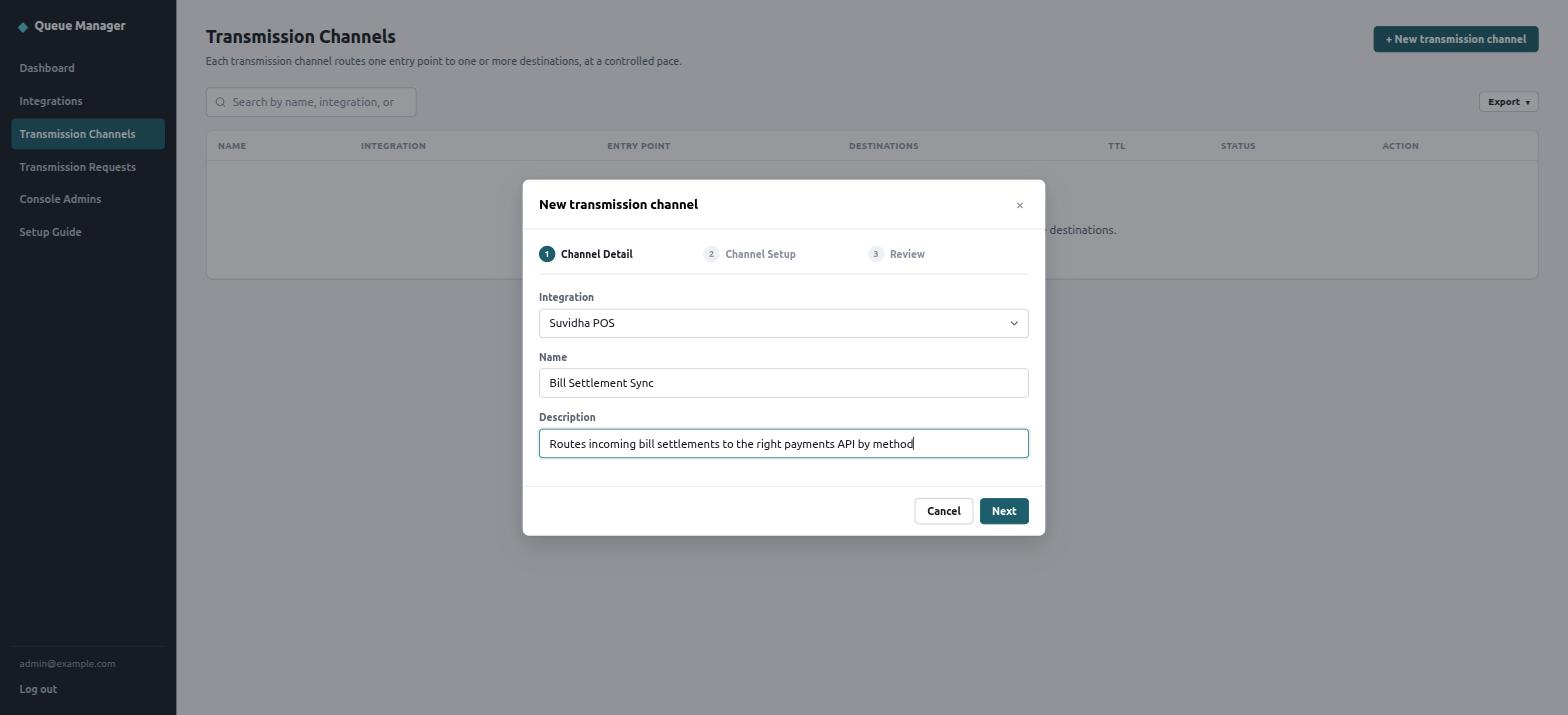
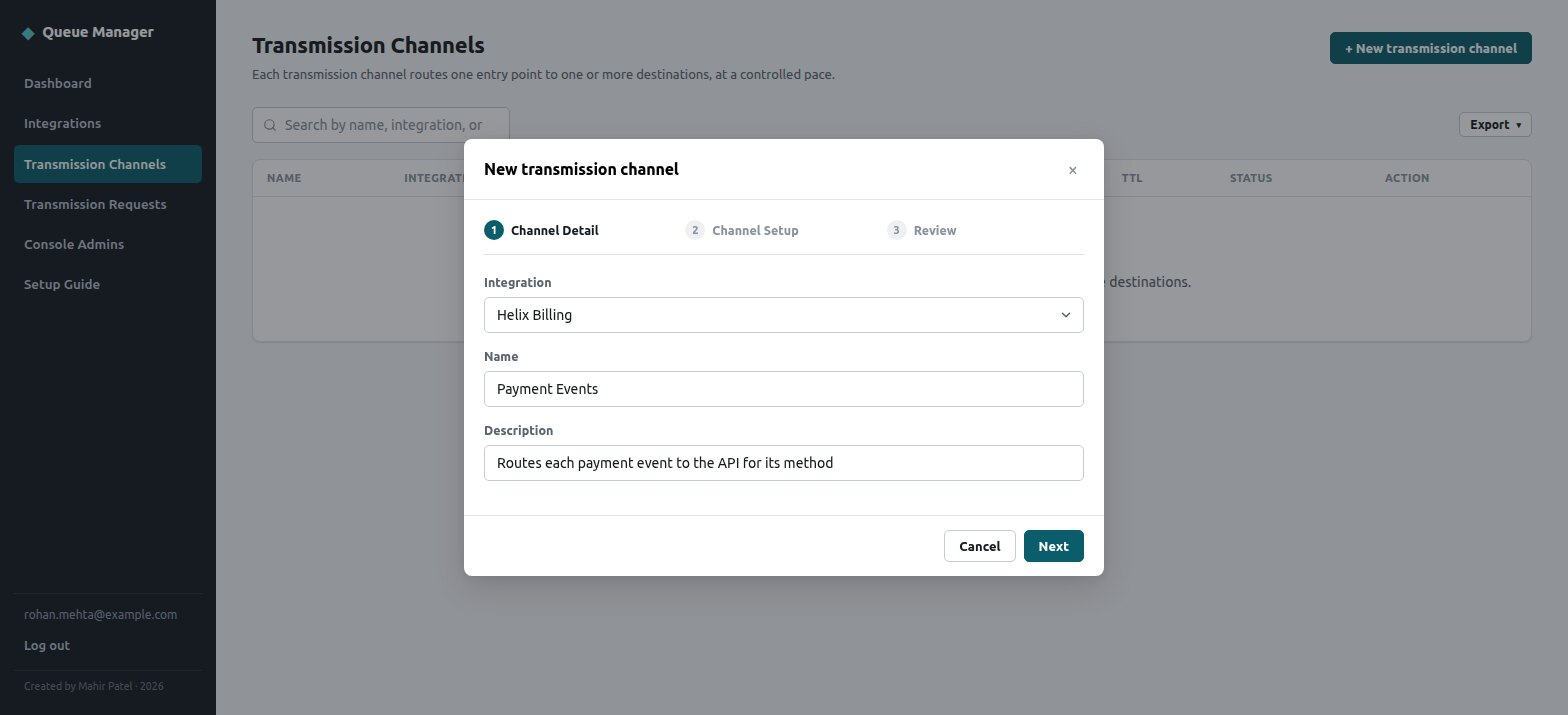
update documentations

diff --git a/web/guide.html b/web/guide.html
@@ -53,15 +53,15 @@
 
           <section class="guide-topic active" id="topic-integration">
             <h2>Create an Integration</h2>
-            <p class="guide-topic-intro">An Integration represents one third-party system that will send data into the queue — an ERP, a POS, a logistics platform, anything that needs to call into your backend without calling it directly. Each one gets its own AES-256 key and IV, so a problem with one third party's credentials never affects another's. Create the integration first; a Transmission Channel always belongs to one.</p>
+            <p class="guide-topic-intro">An Integration represents one third-party system that will send data into the queue — a CRM, a billing system, an email provider, anything that needs to call into your backend without calling it directly. Each one gets its own AES-256 key and IV, so a problem with one third party's credentials never affects another's. Create the integration first; a Transmission Channel always belongs to one.</p>
 
             <div class="guide-step">
               <div class="guide-step-num">1</div>
               <div class="guide-step-body">
                 <h3>Open Integrations and click "+ New integration"</h3>
-                <p>The Integrations list shows every third-party system you've onboarded, its description, and its authentication key/IV (masked, with a one-click Copy button — the backend still returns the real values to any signed-in console admin, this is just a display choice so they aren't sitting in plain text on screen). Below, four are already set up: <strong>Saffron ERP</strong>, <strong>Suvidha POS</strong>, <strong>Bharat Logistics Hub</strong>, and <strong>Anand Retail Systems</strong> — a small ERP, point-of-sale, logistics, and loyalty stack, which is what the rest of this guide is built around.</p>
-                <p>Use the search box to narrow the list by name or description as it grows — searching "sync" here, for instance, would show only these four.</p>
-                <img class="guide-shot" src="/static/img/guide/integrations-list.jpg" alt="Integrations list showing Saffron ERP, Suvidha POS, Bharat Logistics Hub, and Anand Retail Systems">
+                <p>The Integrations list shows every third-party system you've onboarded, its description, and its authentication key/IV (masked, with a one-click Copy button — the backend still returns the real values to any signed-in console admin, this is just a display choice so they aren't sitting in plain text on screen). Below, four are already set up: <strong>Northwind CRM</strong>, <strong>Helix Billing</strong>, <strong>Orbit Mail</strong>, and <strong>Atlas HR</strong> — a small CRM, billing, email, and HR stack, which is what the rest of this guide is built around.</p>
+                <p>Use the search box to narrow the list by name or description as it grows — searching "billing" here, for instance, would narrow it to Helix Billing.</p>
+                <img class="guide-shot" src="/static/img/guide/integrations-list.jpg" alt="Integrations list showing Atlas HR, Helix Billing, Northwind CRM, and Orbit Mail">
               </div>
             </div>
 
@@ -71,7 +71,7 @@
                 <h3>Fill in the name and generate a key + IV</h3>
                 <p>Give the integration a name and a short description — the description shows up right in the list, so make it say what the system actually does, not just what it's called. Then set:</p>
                 <p><code>Authentication key</code> — exactly 32 characters, used as the AES-256 key. <code>Authentication IV</code> — exactly 16 characters, the initialization vector. Both travel to the third party out of band (Slack, a shared doc, however you hand off credentials today) — Queue Manager never transmits them anywhere itself, it only stores them to decrypt what comes back in.</p>
-                <img class="guide-shot" src="/static/img/guide/integrations-new-form.jpg" alt="New integration dialog filled in for Saffron ERP with name, description, authentication key and IV">
+                <img class="guide-shot" src="/static/img/guide/integrations-new-form.jpg" alt="New integration dialog filled in for Quill Support with name, description, authentication key and IV">
                 <p class="guide-callout">Save the key and IV somewhere safe the moment you generate them — you'll hand them to whoever implements the sending side, and they're exactly what the downloadable sample integration doc (see the next topic) fills in automatically, so you rarely need to copy them by hand more than once.</p>
               </div>
             </div>
@@ -93,8 +93,8 @@
               <div class="guide-step-num">1</div>
               <div class="guide-step-body">
                 <h3>Open Transmission Channels and click "+ New transmission channel"</h3>
-                <p>Each row shows which integration the channel belongs to, its entry point, how many destinations it fans out to, its retention (TTL), and whether it's active. Below, <strong>Order Sync</strong> (Saffron ERP) is a simple one-destination channel; <strong>Bill Settlement Sync</strong> (Suvidha POS) fans out to two destinations by payment method; <strong>Shipment Status Sync</strong> is active; and <strong>Loyalty Points Sync</strong> is currently inactive — a normal state for a channel that's paused, being reconfigured, or not live yet.</p>
-                <img class="guide-shot" src="/static/img/guide/channels-list.jpg" alt="Transmission Channels list showing Bill Settlement Sync, Loyalty Points Sync (inactive), Order Sync, and Shipment Status Sync">
+                <p>Each row shows which integration the channel belongs to, its entry point, how many destinations it fans out to, its retention (TTL), and whether it's active. Below, <strong>Customer Sync</strong> (Northwind CRM) is a simple one-destination channel; <strong>Payment Events</strong> (Helix Billing) fans out to two destinations by payment method; <strong>Email Status Sync</strong> is active; and <strong>Employee Sync</strong> is currently inactive — a normal state for a channel that's paused, being reconfigured, or not live yet.</p>
+                <img class="guide-shot" src="/static/img/guide/channels-list.jpg" alt="Transmission Channels list showing Customer Sync, Email Status Sync, Employee Sync (inactive), and Payment Events">
               </div>
             </div>
 
@@ -102,8 +102,8 @@
               <div class="guide-step-num">2</div>
               <div class="guide-step-body">
                 <h3>Step 1 — Channel Detail</h3>
-                <p>Pick which Integration this channel belongs to, then give the channel its own name and description, separate from the integration's. One integration can own several channels — Suvidha POS, for example, might eventually have a channel each for bill settlements, refunds, and shift closures, all sharing the same authentication key/IV but each with its own entry point, retention, and destinations.</p>
-                <img class="guide-shot" src="/static/img/guide/channels-wizard-step1.jpg" alt="Step 1 of the new transmission channel wizard filled in for Bill Settlement Sync under Suvidha POS">
+                <p>Pick which Integration this channel belongs to, then give the channel its own name and description, separate from the integration's. One integration can own several channels — Helix Billing, for example, might eventually have a channel each for payment events, refunds, and invoices, all sharing the same authentication key/IV but each with its own entry point, retention, and destinations.</p>
+                <img class="guide-shot" src="/static/img/guide/channels-wizard-step1.jpg" alt="Step 1 of the new transmission channel wizard filled in for Payment Events under Helix Billing">
               </div>
             </div>
 
@@ -112,9 +112,9 @@
               <div class="guide-step-body">
                 <h3>Step 2 — Channel Setup</h3>
                 <p>Set the <code>Entry point</code> slug — this becomes the path third parties POST encrypted payloads to (use "Copy URL" to grab the full ingest URL to hand off), and <code>Keep transmission requests for (days)</code> — how long a request's record stays queryable before it's cleaned up automatically.</p>
-                <p>Then add one or more <code>Destinations</code>, each with its own endpoint URL and <code>Gap between sends</code> (seconds of pacing between consecutive deliveries to that destination — this is the throttle that protects the real backend). With a single destination, like Order Sync's <strong>Inventory API</strong>, every request that arrives goes straight there — no routing configuration needed at all.</p>
-                <p>Add a second destination and a <code>Routing field</code> box appears above the destinations list. Bill Settlement Sync below names that field <code>payment_type</code>, and its two destinations — <strong>UPI Payments API</strong> (routing value <code>upi</code>) and <strong>Card Payments API</strong> (routing value <code>card</code>) — each claim one value. When a payload arrives, Queue Manager reads <code>payment_type</code> out of the decrypted JSON and hands the request to whichever destination's value matches — a single lookup at the moment it arrives, so it stays fast and simple even with several destinations.</p>
-                <img class="guide-shot" src="/static/img/guide/channels-wizard-step2.jpg" alt="Step 2 of the new transmission channel wizard: entry point, TTL, routing field payment_type, and the UPI Payments API destination">
+                <p>Then add one or more <code>Destinations</code>, each with its own endpoint URL and <code>Gap between sends</code> (seconds of pacing between consecutive deliveries to that destination — this is the throttle that protects the real backend). With a single destination, like Customer Sync's <strong>Accounts API</strong>, every request that arrives goes straight there — no routing configuration needed at all.</p>
+                <p>Add a second destination and a <code>Routing field</code> box appears above the destinations list. Payment Events below names that field <code>payment_method</code>, and its two destinations — <strong>Card Payments API</strong> (routing value <code>card</code>) and <strong>UPI Payments API</strong> (routing value <code>upi</code>) — each claim one value. When a payload arrives, Queue Manager reads <code>payment_method</code> out of the decrypted JSON and hands the request to whichever destination's value matches — a single lookup at the moment it arrives, so it stays fast and simple even with several destinations.</p>
+                <img class="guide-shot" src="/static/img/guide/channels-wizard-step2.jpg" alt="Step 2 of the new transmission channel wizard: entry point, TTL, routing field payment_method, and the Card Payments API destination">
               </div>
             </div>
 
@@ -122,7 +122,7 @@
               <div class="guide-step-num">4</div>
               <div class="guide-step-body">
                 <h3>Step 3 — Review</h3>
-                <p>Review shows every destination with its resolved routing rule in plain language — "UPI Payments API — routes when <code>payment_type</code> = <code>upi</code>" — so you can sanity-check the whole fan-out at a glance before committing. From here, "Download sample integration doc" generates a Markdown file with the real ingest URL, the required headers, the AES-256-CBC encryption recipe (the exact PHP snippet a third-party developer would use), the integration's key/IV already filled in, the routing key and its values if this channel routes, and — per destination — a sample plaintext JSON body, that same body already encrypted with the integration's real key/IV, and a ready-to-run <code>curl</code> command built from it. The encrypted samples are generated live in your browser, so the <code>curl</code> commands in the file are genuine working requests, not placeholders — copy one straight into a terminal to smoke-test the channel before any third party writes a line of code. Hand the file to whoever's implementing the sending side and there's nothing left for them to guess.</p>
+                <p>Review shows every destination with its resolved routing rule in plain language — "UPI Payments API — routes when <code>payment_method</code> = <code>upi</code>" — so you can sanity-check the whole fan-out at a glance before committing. From here, "Download sample integration doc" generates a Markdown file with the real ingest URL, the required headers, the AES-256-CBC encryption steps (the exact PHP snippet a third-party developer would use), the integration's key/IV already filled in, the routing key and its values if this channel routes, and — per destination — a sample plaintext JSON body, that same body already encrypted with the integration's real key/IV, and a ready-to-run <code>curl</code> command built from it. The encrypted samples are generated live in your browser, so the <code>curl</code> commands in the file are genuine working requests, not placeholders — copy one straight into a terminal to smoke-test the channel before any third party writes a line of code. Hand the file to whoever's implementing the sending side and there's nothing left for them to guess.</p>
                 <img class="guide-shot" src="/static/img/guide/channels-wizard-step3.jpg" alt="Step 3 of the new transmission channel wizard: review showing both destinations' routing rules and the download sample doc button">
               </div>
             </div>
@@ -131,8 +131,8 @@
               <div class="guide-step-num">5</div>
               <div class="guide-step-body">
                 <h3>Save, then activate</h3>
-                <p>Saving creates the channel in an inactive state — nothing is listening yet. Click "Activate" on its row to start a worker processing for each destination; the entry point only starts accepting traffic once this happens. "Deactivate" reverses it without deleting anything — requests already waiting for a destination stay queued untouched, so pausing a channel to fix a downstream issue never drops a backlog. <strong>Loyalty Points Sync</strong> below is a real example of a paused channel sitting in exactly that state.</p>
-                <img class="guide-shot" src="/static/img/guide/channels-list-with-activate.jpg" alt="Transmission Channels list with Loyalty Points Sync inactive and an Activate button on its row">
+                <p>Saving creates the channel in an inactive state — nothing is listening yet. Click "Activate" on its row to start a worker processing for each destination; the entry point only starts accepting traffic once this happens. "Deactivate" reverses it without deleting anything — requests already waiting for a destination stay queued untouched, so pausing a channel to fix a downstream issue never drops a backlog. <strong>Employee Sync</strong> below is a real example of a paused channel sitting in exactly that state.</p>
+                <img class="guide-shot" src="/static/img/guide/channels-list-with-activate.jpg" alt="Transmission Channels list with Employee Sync inactive and an Activate button on its row">
               </div>
             </div>
           </section>
@@ -146,8 +146,8 @@
               <div class="guide-step-body">
                 <h3>Open Transmission Requests</h3>
                 <p>Narrow the grid with the dropdowns — by transmission channel, by status (<span class="mono">pending</span>, <span class="mono">processing</span>, <span class="mono">success</span>, <span class="mono">failed</span>), or by a date range — then click Filter, or search the currently loaded rows by request ID or channel name. The coloured rail on the left edge of each row is the fastest way to scan a long list for trouble: green for success, red for failed, at a glance without reading the Status column at all.</p>
-                <p>Below, ten requests have already landed across all four channels — order events from Saffron ERP, UPI and card settlements from Suvidha POS split correctly by the routing rule you set up above, shipment updates from Bharat Logistics Hub, and loyalty accrual events from Anand Retail Systems, all successful, plus one Order Sync request that failed and was retried.</p>
-                <img class="guide-shot" src="/static/img/guide/requests-grid.jpg" alt="Transmission Requests grid with ten rows across four channels including one Order Sync retry">
+                <p>Below, eleven requests have already landed across all four channels — new customer accounts from Northwind CRM, card and UPI payment events from Helix Billing split correctly by the routing rule you set up above, email delivery updates from Orbit Mail, and joiner and leaver events from Atlas HR. Ten were delivered, and one Customer Sync request failed.</p>
+                <img class="guide-shot" src="/static/img/guide/requests-grid.jpg" alt="Transmission Requests grid with requests across all four channels, including one failed Customer Sync request">
               </div>
             </div>
 
@@ -155,8 +155,8 @@
               <div class="guide-step-num">2</div>
               <div class="guide-step-body">
                 <h3>Open a failed request</h3>
-                <p>Click "View" on any row to see its full detail: which channel and destination it was headed to, the exact destination endpoint URL that was called, the request's decrypted body exactly as it was received (handy for confirming the third party is actually sending what you expect), and the raw response — HTTP status plus body — that came back from the destination. Below, a Saffron ERP order for customer Anil Deshmukh failed with an HTTP 500 because the Inventory API was temporarily pointed at a broken endpoint; the response body makes the reason obvious without needing to check server logs.</p>
-                <img class="guide-shot" src="/static/img/guide/requests-detail-failed.jpg" alt="Transmission Request detail dialog for a failed Order Sync request showing the decrypted payload and a 500 response">
+                <p>Click "View" on any row to see its full detail: which channel and destination it was headed to, the exact destination endpoint URL that was called, the request's decrypted body exactly as it was received (handy for confirming the third party is actually sending what you expect), and the raw response — HTTP status plus body — that came back from the destination. Below, a Northwind CRM update for the customer Quarry &amp; Co failed with an HTTP 500 because the Accounts API destination had been pointed at a v2 endpoint that wasn't live yet; the response body makes the reason obvious without needing to check server logs.</p>
+                <img class="guide-shot" src="/static/img/guide/requests-detail-failed.jpg" alt="Transmission Request detail dialog for a failed Customer Sync request showing the decrypted payload and a 500 response">
               </div>
             </div>
 
@@ -165,7 +165,7 @@
               <div class="guide-step-body">
                 <h3>Retry it</h3>
                 <p>Fix the underlying problem first — in this example, that means correcting the destination's endpoint URL back on the Transmission Channel — then click Retry from the detail dialog or straight from the grid row. Queue Manager always re-publishes against the destination's <em>current</em> configuration, not whatever was in effect at the moment it first failed, so "fix the endpoint, then retry" genuinely works. The retry count on the row ticks up by one and the original decrypted payload is reused as-is — nothing is re-entered, re-typed, or re-encrypted by hand. Below, the same request now shows Success, HTTP 200, and one retry.</p>
-                <img class="guide-shot" src="/static/img/guide/requests-after-retry.jpg" alt="Transmission Requests grid showing the previously-failed Order Sync request now succeeded with a retry count of 1">
+                <img class="guide-shot" src="/static/img/guide/requests-after-retry.jpg" alt="Transmission Requests grid showing the previously-failed Customer Sync request now succeeded with a retry count of 1">
                 <p class="guide-callout">Retry is always a manual, deliberate action — Queue Manager never auto-retries a failed request on its own. That's a conscious choice: a downstream outage shouldn't turn into a retry storm hammering the same broken endpoint.</p>
               </div>
             </div>

diff --git a/web/static/js/templates.js b/web/static/js/templates.js
@@ -158,12 +158,12 @@
           </div>
           <div class="field dest-routing-value-field">
             <label>Routing value</label>
-            <input type="text" class="dest-routing-value" placeholder="order.created" value="${escapeHtml(d.destination_routing_value || "")}">
+            <input type="text" class="dest-routing-value" placeholder="customer.created" value="${escapeHtml(d.destination_routing_value || "")}">
           </div>
         </div>
         <div class="field">
           <label>Destination endpoint URL</label>
-          <input type="text" class="dest-endpoint" required placeholder="https://internal.example.com/inventory/purchase" value="${escapeHtml(d.destination_end_point || "")}">
+          <input type="text" class="dest-endpoint" required placeholder="https://internal.example.com/accounts/customers" value="${escapeHtml(d.destination_end_point || "")}">
         </div>
         <div class="field">
           <label>Gap between sends (seconds)</label>
@@ -308,7 +308,7 @@
   }
 
   // Builds a hand-off doc for whoever implements the sending side — full
-  // ingest URL, headers, the encryption recipe, the integration's actual
+  // ingest URL, headers, the encryption steps, the integration's actual
   // key/IV (already visible to any console admin elsewhere in the app —
   // this is a display convenience, not a new exposure), the routing key
   // if this channel fans out, a sample plaintext + encrypted body per

diff --git a/web/templates.html b/web/templates.html
@@ -101,7 +101,7 @@
           <div class="field">
             <label for="templateEntryPoint">Entry point</label>
             <div class="input-with-button">
-              <input type="text" id="templateEntryPoint" required placeholder="inventory-order-sync">
+              <input type="text" id="templateEntryPoint" required placeholder="customer-sync">
               <button type="button" class="btn btn-sm" id="copyEntryPointBtn">Copy URL</button>
             </div>
             <p class="hint">Third parties will POST to <code id="entryPointPreview">/ingest/…</code></p>

diff --git a/internal/handlers/templates.go b/internal/handlers/templates.go
@@ -35,7 +35,7 @@ type templateInput struct {
 	ProductID              string             `json:"product_id"`
 	TemplateName           string             `json:"template_name"`
 	TemplateDescription    string             `json:"template_description"`
-	TemplateEntryPoint     string             `json:"template_entry_point"` // slug, e.g. "inventory-order-sync"
+	TemplateEntryPoint     string             `json:"template_entry_point"` // slug, e.g. "customer-sync"
 	TemplateRoutingField   string             `json:"template_routing_field"`
 	Destinations           []destinationInput `json:"destinations"`
 	TemplateRequestTTLDays int                `json:"template_request_ttl_days"`

diff --git a/internal/crypto/aes_test.go b/internal/crypto/aes_test.go
@@ -6,8 +6,8 @@ import (
 
 // TestDecrypt_PHPFixture validates against a ciphertext generated by real
 // PHP: openssl_encrypt(json_encode($data), 'AES-256-CBC', $key, OPENSSL_RAW_DATA, $iv)
-// then urlencode(base64_encode($encrypted)) — the exact pattern used in
-// /var/www/html/inventory/app/Model/AppModel.php.
+// then urlencode(base64_encode($encrypted)) — the exact pattern a PHP sender
+// uses (see the PHP snippet in the sample integration doc).
 func TestDecrypt_PHPFixture(t *testing.T) {
 	key := []byte("abcdefghij0123456789ABCDEFGHIJ01")
 	iv := []byte("0123456789abcdef")

diff --git a/README.md b/README.md
@@ -1,7 +1,7 @@
 # Queue Manager
 
-An open-source, self-hosted service that decouples third-party systems (an
-ERP, a POS, a logistics platform — anything external) from calling your
+An open-source, self-hosted service that decouples third-party systems (a
+CRM, a billing system, an email provider — anything external) from calling your
 backend services directly, so a burst or a misbehaving integration never
 turns into a spike against production.
 
@@ -47,7 +47,7 @@ or collection name, it uses the code name verbatim in backticks.
 
 ```mermaid
 flowchart LR
-    TP["Third party<br/>ERP, POS, ..."] -->|POST encrypted payload| ING["Ingest endpoint"]
+    TP["Third party<br/>CRM, billing, ..."] -->|POST encrypted payload| ING["Ingest endpoint"]
     ING --> DEC["Decrypt with the<br/>integration's key/IV"]
     DEC --> ROUTE["Resolve destination<br/>routing field, if more than one"]
     ROUTE --> MONGO["MongoDB<br/>requests: pending"]
@@ -317,7 +317,7 @@ every screenshot below matches what you'd actually see.
 ### 1. Create an Integration
 
 An Integration represents one third-party system that will send data into
-the queue — an ERP, a POS, a logistics platform, anything that needs to
+the queue — a CRM, a billing system, an email provider, anything that needs to
 call into your backend without calling it directly. Each one gets its own
 AES-256 key and IV, so a problem with one third party's credentials never
 affects another's. Create the integration first; a Transmission Channel
@@ -329,7 +329,7 @@ authentication key/IV (masked on screen, with a one-click Copy button — the
 API still returns the real values to any signed-in console admin, this is
 just a display choice).
 
-![Integrations list showing Saffron ERP, Suvidha POS, Bharat Logistics Hub, and Anand Retail Systems](web/static/img/guide/integrations-list.jpg)
+![Integrations list showing Atlas HR, Helix Billing, Northwind CRM, and Orbit Mail](web/static/img/guide/integrations-list.jpg)
 
 Give the integration a name and description, then set:
 
@@ -340,7 +340,7 @@ Both travel to the third party out of band (Slack, a shared doc, however
 you hand off credentials today) — Queue Manager never transmits them
 anywhere itself, it only stores them to decrypt what comes back in.
 
-![New integration dialog filled in for Saffron ERP with name, description, authentication key and IV](web/static/img/guide/integrations-new-form.jpg)
+![New integration dialog filled in for Quill Support with name, description, authentication key and IV](web/static/img/guide/integrations-new-form.jpg)
 
 Save, and the integration is ready to be attached to one or more
 Transmission Channels. Nothing is listening for traffic yet — an
@@ -358,7 +358,7 @@ Each row shows which integration the channel belongs to, its entry point,
 how many destinations it fans out to, its retention (TTL), and whether
 it's active.
 
-![Transmission Channels list showing Bill Settlement Sync, Loyalty Points Sync (inactive), Order Sync, and Shipment Status Sync](web/static/img/guide/channels-list.jpg)
+![Transmission Channels list showing Customer Sync, Email Status Sync, Employee Sync (inactive), and Payment Events](web/static/img/guide/channels-list.jpg)
 
 The dialog is a 3-step wizard:
 
@@ -367,7 +367,7 @@ to, then give the channel its own name and description. One integration
 can own several channels — sharing the same key/IV but each with its own
 entry point, retention, and destinations.
 
-![Step 1 of the new transmission channel wizard filled in for Bill Settlement Sync under Suvidha POS](web/static/img/guide/channels-wizard-step1.jpg)
+![Step 1 of the new transmission channel wizard filled in for Payment Events under Helix Billing](web/static/img/guide/channels-wizard-step1.jpg)
 
 **Step 2 — Channel Setup.** Set the entry point slug (the path third
 parties POST to) and how long to keep request records before automatic
@@ -377,18 +377,18 @@ the real backend. With a single destination, every request goes straight
 there, no routing needed.
 
 Add a second destination and a **Routing field** appears. Below,
-`payment_type` routes to **UPI Payments API** (value `upi`) or **Card
-Payments API** (value `card`) — Queue Manager reads that field out of the
+`payment_method` routes to **Card Payments API** (value `card`) or **UPI
+Payments API** (value `upi`) — Queue Manager reads that field out of the
 decrypted payload and hands the request to whichever destination's value
 matches.
 
-![Step 2 of the new transmission channel wizard: entry point, TTL, routing field payment_type, and the UPI Payments API destination](web/static/img/guide/channels-wizard-step2.jpg)
+![Step 2 of the new transmission channel wizard: entry point, TTL, routing field payment_method, and the Card Payments API destination](web/static/img/guide/channels-wizard-step2.jpg)
 
 **Step 3 — Review.** Shows every destination with its resolved routing
 rule in plain language, so you can sanity-check the whole fan-out before
 committing. From here, **Download sample integration doc** generates a
 Markdown handoff file with the real ingest URL, headers, the encryption
-recipe, the integration's key/IV, and — per destination — a sample payload
+steps, the integration's key/IV, and — per destination — a sample payload
 already encrypted with the real key/IV plus a ready-to-run `curl` command,
 so whoever implements the sending side has nothing left to guess.
 
@@ -401,7 +401,7 @@ without deleting anything — requests already waiting for a destination
 stay queued untouched, so pausing a channel to fix a downstream issue never
 drops a backlog.
 
-![Transmission Channels list with Loyalty Points Sync inactive and an Activate button on its row](web/static/img/guide/channels-list-with-activate.jpg)
+![Transmission Channels list with Employee Sync inactive and an Activate button on its row](web/static/img/guide/channels-list-with-activate.jpg)
 
 ### 3. Monitor & retry Transmission Requests
 
@@ -416,16 +416,16 @@ currently loaded rows by request ID or channel name. The colored rail on
 the left edge of each row is the fastest way to scan a long list for
 trouble — green for success, red for failed.
 
-![Transmission Requests grid with ten rows across four channels including one Order Sync retry](web/static/img/guide/requests-grid.jpg)
+![Transmission Requests grid with requests across all four channels, including one failed Customer Sync request](web/static/img/guide/requests-grid.jpg)
 
 Click **View** on any row for its full detail: which channel and
 destination it was headed to, the exact endpoint URL called, the request's
 decrypted body exactly as received, and the raw response (HTTP status +
-body) that came back. Below, an order failed with HTTP 500 because the
-destination endpoint was temporarily broken — the response body makes the
-reason obvious without needing to check server logs.
+body) that came back. Below, a customer update failed with HTTP 500
+because the channel had been pointed at a v2 endpoint that wasn't live
+yet — the response body makes the reason obvious without needing to check server logs.
 
-![Transmission Request detail dialog for a failed Order Sync request showing the decrypted payload and a 500 response](web/static/img/guide/requests-detail-failed.jpg)
+![Transmission Request detail dialog for a failed Customer Sync request showing the decrypted payload and a 500 response](web/static/img/guide/requests-detail-failed.jpg)
 
 Fix the underlying problem first (in this example, correct the
 destination's endpoint URL on the channel), then click **Retry** from the
@@ -435,7 +435,7 @@ effect when it first failed — so "fix the endpoint, then retry" genuinely
 works. The retry count ticks up and the original decrypted payload is
 reused as-is.
 
-![Transmission Requests grid showing the previously-failed Order Sync request now succeeded with a retry count of 1](web/static/img/guide/requests-after-retry.jpg)
+![Transmission Requests grid showing the previously-failed Customer Sync request now succeeded with a retry count of 1](web/static/img/guide/requests-after-retry.jpg)
 
 Retry is always a manual, deliberate action — Queue Manager never
 auto-retries a failed request on its own. A downstream outage shouldn't
@@ -632,3 +632,14 @@ destinations to forward to, asserts on the outcome of each step, and tears
 everything down when it's done — pass or fail. Requires Docker and Go on
 the host (Go is only needed to build a tiny test-payload encryption
 helper; the app itself never needs it to run in Docker).
+
+## Contributing
+
+Contributions are welcome. Open an issue to report a bug or discuss an
+idea, or send a pull request. Please run `go test ./...` (and
+`./scripts/e2e-docker-test.sh` if you touched the worker or dispatch code)
+before opening it.
+
+## License
+
+[MIT](LICENSE). Free to use, modify, and distribute.
